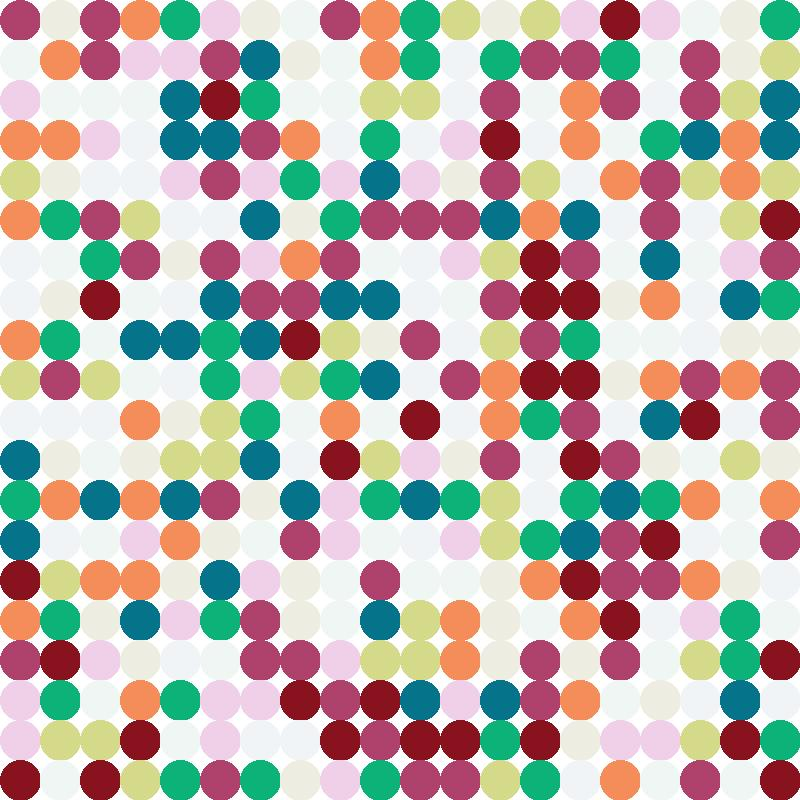
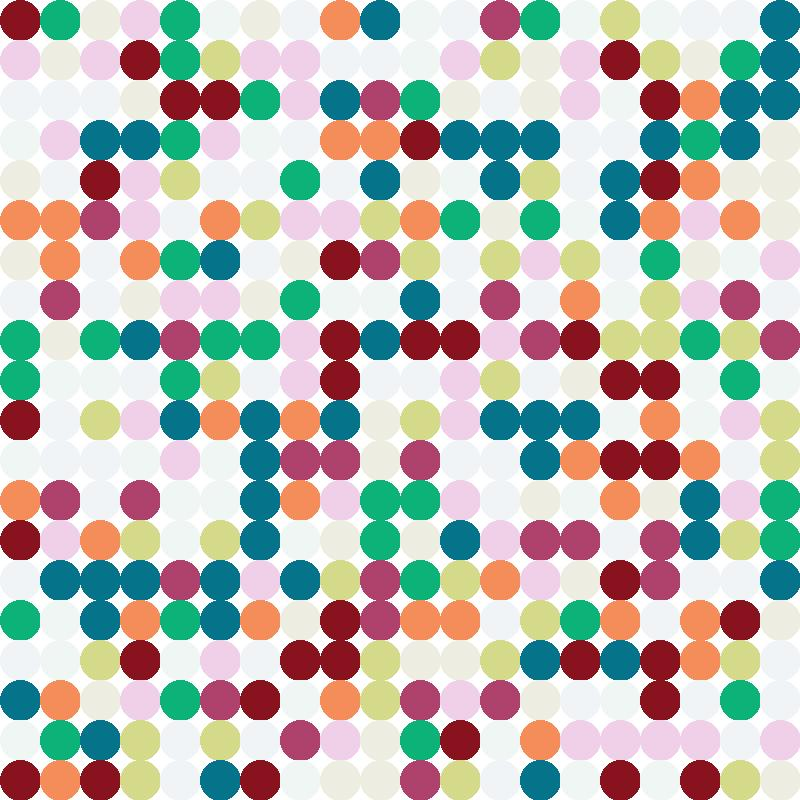
Commit

diff --git a/Day018/day-018-colorgram-project-v1.py b/Day018/day-018-colorgram-project-v1.py
@@ -1,0 +1,61 @@
+import colorgram
+import turtle as t
+import random
+from PIL import Image, ImageDraw
+
+
+def extract_colors(image_path, num_colors):
+    colors = colorgram.extract(image_path, num_colors)
+    rgb_colors = []
+    for color in colors:
+        r, g, b = color.rgb
+        rgb_colors.append((r, g, b))
+    return rgb_colors
+
+
+def create_art(colors, dot_count, dot_size, canvas_size):
+    image = Image.new("RGB", (canvas_size, canvas_size), "white")
+    draw = ImageDraw.Draw(image)
+
+    for y in range(dot_count):
+        for x in range(dot_count):
+            color = random.choice(colors)
+            x_pos = x * dot_size + dot_size // 2
+            y_pos = y * dot_size + dot_size // 2
+            draw.ellipse([x_pos - dot_size // 2, y_pos - dot_size // 2,
+                          x_pos + dot_size // 2, y_pos + dot_size // 2],
+                         fill=color)
+
+    return image
+
+
+# Ana program
+num_colors = 10
+dot_count = 20
+dot_size = 40
+canvas_size = dot_count * dot_size
+
+# Renkler çıkarılıyor
+colors = extract_colors(r"C:\Users\aonik\PycharmProjects\100DaysOfCode-Python\Day018\example.jpeg", num_colors)
+
+# Renklerin ekranda gösterilmesi
+color_list = []
+for color in colors:
+    r, g, b = color
+    color_list.append((r, g, b))
+    print(f"({r}, {g}, {b})")
+
+# Sanat eseri oluşturuluyor
+art_image = create_art(color_list, dot_count, dot_size, canvas_size)
+
+# Renklerin ekranda gösterilmesi
+for i in range(len(color_list)):
+    print(f"({color_list[i][0]}, {color_list[i][1]}, {color_list[i][2]})")
+# JPEG olarak kaydetme
+output_path = r"C:\Users\aonik\PycharmProjects\100DaysOfCode-Python\Day018\output_art.jpeg"
+art_image.save(output_path, "JPEG")
+
+print(f"Sanat eseri {output_path} konumuna JPEG olarak kaydedildi.")
+
+# Görüntüyü ekranda gösterme (isteğe bağlı)
+art_image.show()
